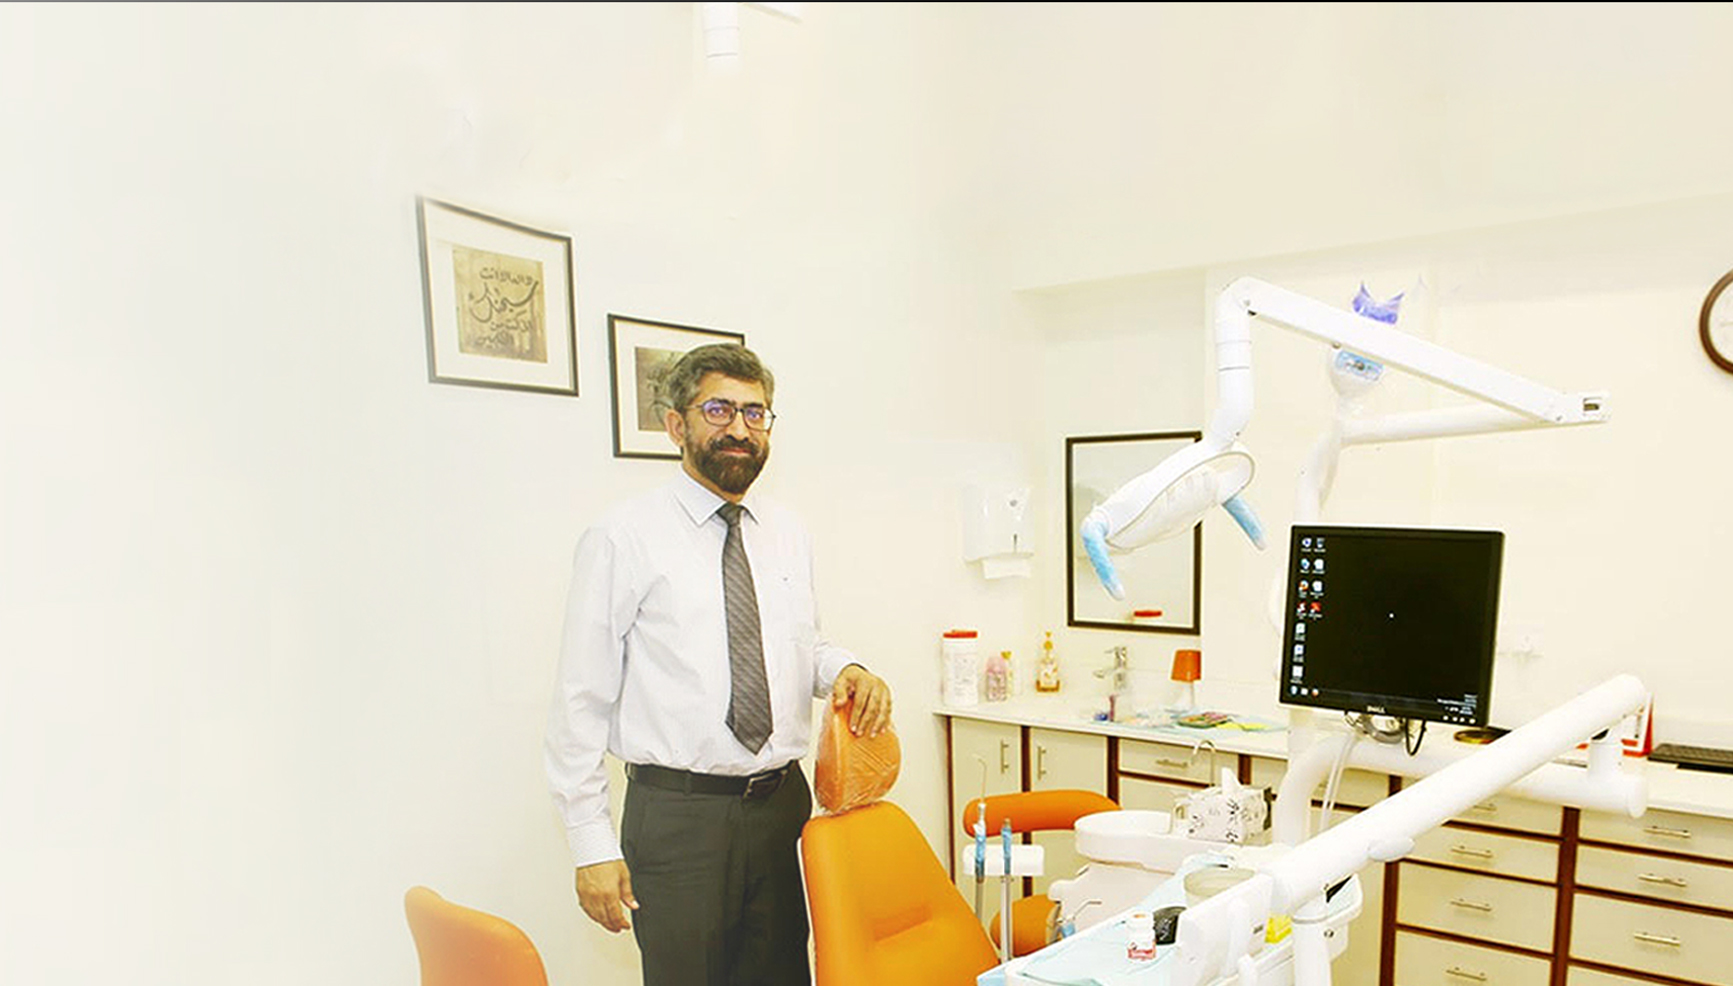
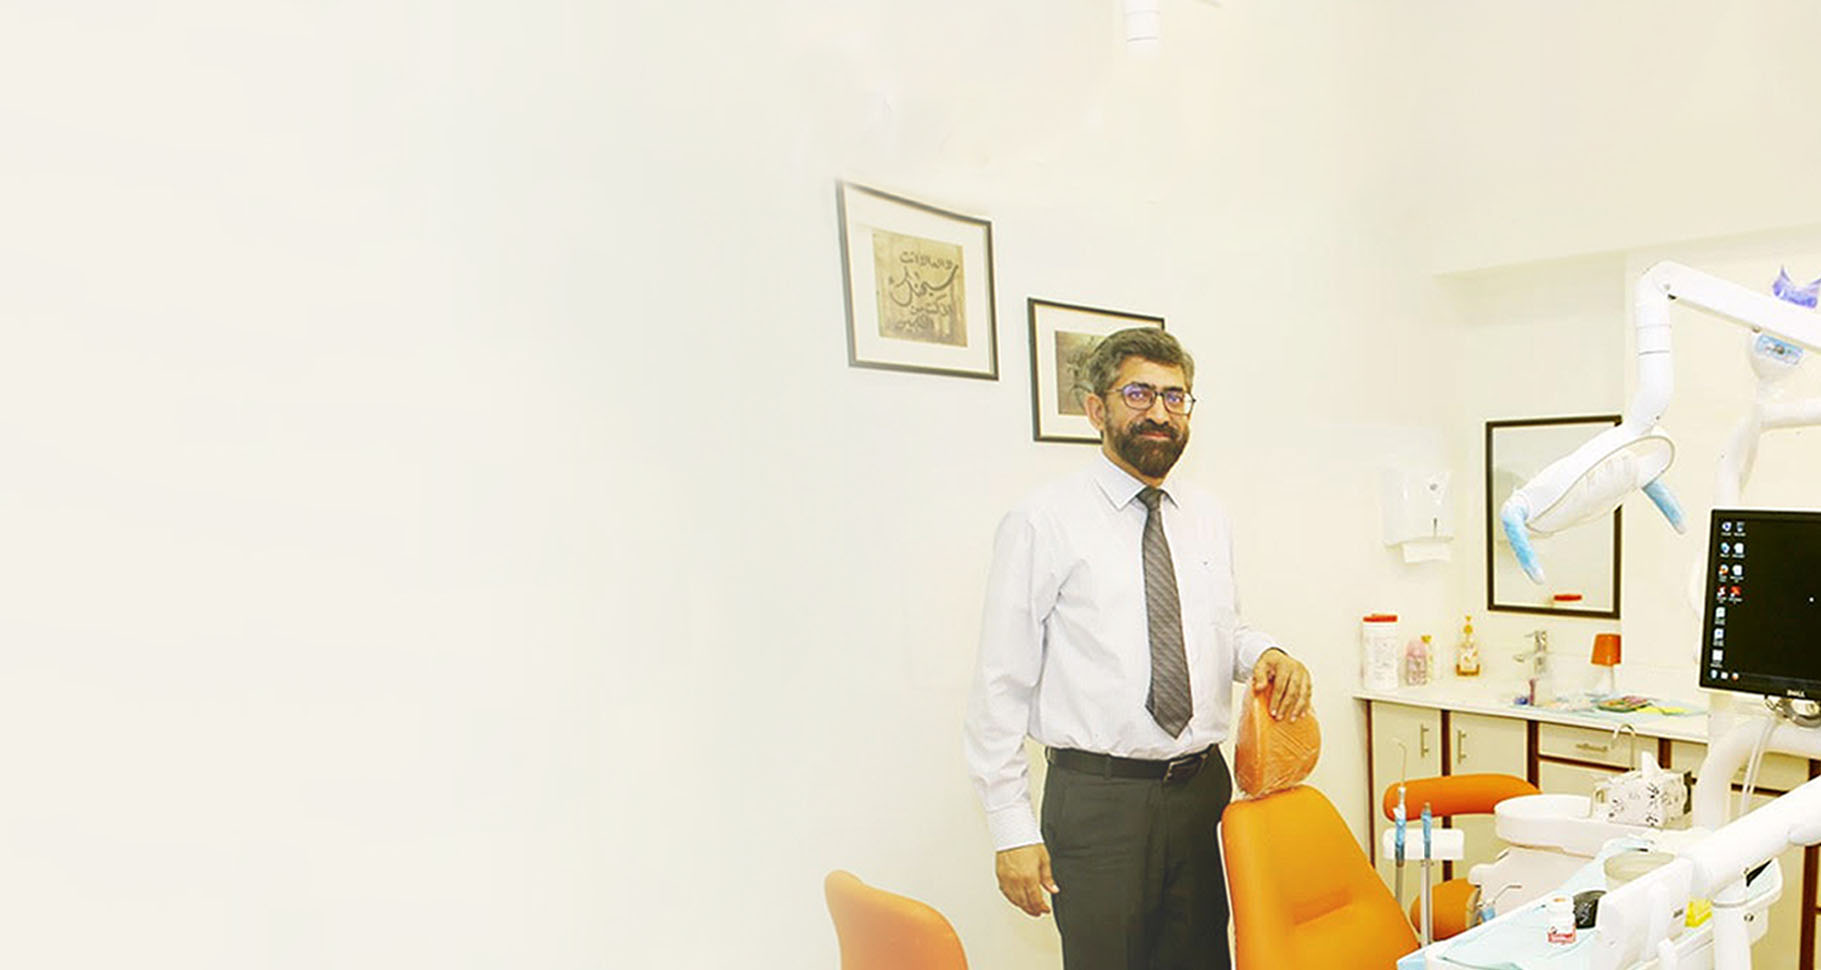
add slider on main page

diff --git a/public/css/style.css b/public/css/style.css
@@ -66,12 +66,16 @@ li {
 }
 
 #header-main {
+    background-color: #f5f2e9;
+}
+/* #header-main {
     background-image: url('../images/banner-image_01.jpg');
     height: 1100px;
     background-repeat: no-repeat;
     background-size: cover;
     background-position: left center;
-}
+} */
+
 /* #header-inner {
     background-image: url('../images/Inner-page01-header-bg_01.png');
     height: 350px;
@@ -373,6 +377,41 @@ div#banner-block-01 {
     width: 10%;
 }
 
+/* banner slider */
+
+.carousel-content {
+    display: flex;
+    justify-content: space-between;
+}
+
+.carousel-content .carousel-left {
+    width: 560px;
+    text-align: left;
+}
+.carousel-content .carousel-left h1{
+    font-family: "bill corporate narrow W00medium";
+    font-size:60px;
+}
+.get-start{
+    padding: 20px 30px;
+    background-color: #8d1a22;
+    color: #fff;
+    text-decoration: none;
+    font-family: 'bill corporate narrow W00medium';
+    font-size: 18px;
+    border-radius: 100px;
+}
+.get-start img {
+    border-radius: 100%;
+    top: 0px;
+    position: relative;
+    left: 15px;
+}
+.carousel-caption {
+    position: absolute;
+    right: 15%;
+    bottom: 30% !important;
+}
 /* banner */
 
 /* header */

diff --git a/resources/views/inc/header-main.blade.php b/resources/views/inc/header-main.blade.php
@@ -89,38 +89,87 @@
             </marquee>
           </div>
         </div>
-
-        <div id="banner-block-01">
-            <div class="banner-txt-blk">
-                <p class="p-01">Welcome To Shah Dental</p>
-                <h1>We Are <strong>Creating <br>Natural Beauty</strong> With <br> Extraordinary <span
-                        class="color-01"><strong>Smiles</strong></span></h1>
-                <p>Greetings and welcome to Shah Dental Clinic (Prof. Syed Shah<br>
-                    Faisal & Associates). We are proud to serve the people of<br>
-                    Karachi since 1998. </p>
-                <a href="{{ url('/make-an-appointment') }}">Get Started <img class="cus-img"
-                        src="{{ url('public/images/Shah-Dental_10.jpg') }}" alt=""></a>
-            </div>
-            <div class="follow-main">
-                <p>Follow Us</p><br>
-                {{-- <img src="{{ asset('images/Shah-Dental-0_03.png') }}" alt=""><br><br> --}}
-                <img src="{{ url('public/images/Shah-Dental-0_03.png') }}" alt=""><br><br>
-                <a href="https://www.facebook.com/Shah-Dental-Clinic-884470434977957">
-                    {{-- <img src="{{ asset('images/Shah-Dental-0_07.png') }}" alt=""> --}}
-                    <img src="{{ url('public/images/Shah-Dental-0_07.png') }}" alt="">
-                </a><br>
-                <a href="https://www.instagram.com/dentalartclinicc/">
-                    {{-- <img src="{{ asset('images/Shah-Dental-0_10.png') }}" alt=""> --}}
-                    <img src="{{ url('public/images/Shah-Dental-0_10.png') }}" alt="">
-                </a><br>
-                <a href="https://twitter.com/SYEDSHA07606672">
-                    {{-- <img src="{{ asset('images/Shah-Dental-0_12.png') }}" alt=""> --}}
-                    <img src="{{ url('public/images/Shah-Dental-0_12.png') }}" alt="">
-                </a>
-
-            </div>
-        </div>  
+        </div>          
       </div>        
     </div>
   </div>
+</div>
+<div id="carouselExampleDark" class="carousel carousel-dark slide" data-bs-ride="carousel">
+  <div class="carousel-indicators">
+    <button type="button" data-bs-target="#carouselExampleDark" data-bs-slide-to="0" class="active" aria-current="true" aria-label="Slide 1"></button>
+    <button type="button" data-bs-target="#carouselExampleDark" data-bs-slide-to="1" aria-label="Slide 2"></button>
+    <button type="button" data-bs-target="#carouselExampleDark" data-bs-slide-to="2" aria-label="Slide 3"></button>
+  </div>
+  <div class="carousel-inner">
+    <div class="carousel-inner-left">
+      <div class="carousel-item active" data-bs-interval="10000">
+        <img src="http://127.0.0.1/ShahDental/public/images/banner-image_01.jpg" class="d-block w-100" alt="...">
+        <div class="carousel-caption carousel-content">
+          <div class="carousel-left">
+            <h5>1-Welcome To Shah Dental</h5>
+            <h1>We Are Creating Natural Beauty With Extraordinary Smiles</h1>
+            <p>Greetings and welcome to Shah Dental Clinic (Prof. Syed Shah
+              Faisal & Associates). We are proud to serve the people of Karachi since 1998.</p>
+              <a class="get-start" href="{{ url('/make-an-appointment') }}">Get Started <img class="cus-img"
+                src="{{ url('public/images/Shah-Dental_10.jpg') }}" alt=""></a>
+          </div>
+          <div class="follow-main">
+            <p>Follow Us</p><br>
+            {{-- <img src="{{ asset('images/Shah-Dental-0_03.png') }}" alt=""><br><br> --}}
+            <img src="{{ url('public/images/Shah-Dental-0_03.png') }}" alt=""><br><br>
+            <a href="https://www.facebook.com/Shah-Dental-Clinic-884470434977957">
+                {{-- <img src="{{ asset('images/Shah-Dental-0_07.png') }}" alt=""> --}}
+                <img src="{{ url('public/images/Shah-Dental-0_07.png') }}" alt="">
+            </a><br>
+            <a href="https://www.instagram.com/dentalartclinicc/">
+                {{-- <img src="{{ asset('images/Shah-Dental-0_10.png') }}" alt=""> --}}
+                <img src="{{ url('public/images/Shah-Dental-0_10.png') }}" alt="">
+            </a><br>
+            <a href="https://twitter.com/SYEDSHA07606672">
+                {{-- <img src="{{ asset('images/Shah-Dental-0_12.png') }}" alt=""> --}}
+                <img src="{{ url('public/images/Shah-Dental-0_12.png') }}" alt="">
+            </a>
+          </div>
+        </div>
+      </div>
+      <div class="carousel-item" data-bs-interval="2000">
+        <img src="http://127.0.0.1/ShahDental/public/images/banner-image_01.jpg" class="d-block w-100" alt="...">
+        <div class="carousel-caption carousel-content">
+          <div class="carousel-left">
+            <h5>2-Welcome To Shah Dental</h5>
+            <h1>We Are Creating Natural Beauty With Extraordinary Smiles</h1>
+            <p>Greetings and welcome to Shah Dental Clinic (Prof. Syed Shah
+              Faisal & Associates). We are proud to serve the people of Karachi since 1998.</p>
+              <a class="get-start" href="{{ url('/make-an-appointment') }}">Get Started <img class="cus-img"
+                src="{{ url('public/images/Shah-Dental_10.jpg') }}" alt=""></a>
+          </div>
+          <div class="follow-main">
+            <p>Follow Us</p><br>
+            {{-- <img src="{{ asset('images/Shah-Dental-0_03.png') }}" alt=""><br><br> --}}
+            <img src="{{ url('public/images/Shah-Dental-0_03.png') }}" alt=""><br><br>
+            <a href="https://www.facebook.com/Shah-Dental-Clinic-884470434977957">
+                {{-- <img src="{{ asset('images/Shah-Dental-0_07.png') }}" alt=""> --}}
+                <img src="{{ url('public/images/Shah-Dental-0_07.png') }}" alt="">
+            </a><br>
+            <a href="https://www.instagram.com/dentalartclinicc/">
+                {{-- <img src="{{ asset('images/Shah-Dental-0_10.png') }}" alt=""> --}}
+                <img src="{{ url('public/images/Shah-Dental-0_10.png') }}" alt="">
+            </a><br>
+            <a href="https://twitter.com/SYEDSHA07606672">
+                {{-- <img src="{{ asset('images/Shah-Dental-0_12.png') }}" alt=""> --}}
+                <img src="{{ url('public/images/Shah-Dental-0_12.png') }}" alt="">
+            </a>
+          </div>
+        </div>
+      </div>
+    </div>
+  </div>
+  <button class="carousel-control-prev" type="button" data-bs-target="#carouselExampleDark" data-bs-slide="prev">
+    <span class="carousel-control-prev-icon" aria-hidden="true"></span>
+    <span class="visually-hidden">Previous</span>
+  </button>
+  <button class="carousel-control-next" type="button" data-bs-target="#carouselExampleDark" data-bs-slide="next">
+    <span class="carousel-control-next-icon" aria-hidden="true"></span>
+    <span class="visually-hidden">Next</span>
+  </button>
 </div>

diff --git a/resources/views/inc/banner-slide.blade.php b/resources/views/inc/banner-slide.blade.php
@@ -1,0 +1,21 @@
+<div id="carouselExampleInterval" class="carousel slide" data-bs-ride="carousel">
+    <div class="carousel-inner">
+      <div class="carousel-item active" data-bs-interval="10000">
+        <img src="..." class="d-block w-100" alt="...">
+      </div>
+      <div class="carousel-item" data-bs-interval="2000">
+        <img src="..." class="d-block w-100" alt="...">
+      </div>
+      <div class="carousel-item">
+        <img src="..." class="d-block w-100" alt="...">
+      </div>
+    </div>
+    <button class="carousel-control-prev" type="button" data-bs-target="#carouselExampleInterval" data-bs-slide="prev">
+      <span class="carousel-control-prev-icon" aria-hidden="true"></span>
+      <span class="visually-hidden">Previous</span>
+    </button>
+    <button class="carousel-control-next" type="button" data-bs-target="#carouselExampleInterval" data-bs-slide="next">
+      <span class="carousel-control-next-icon" aria-hidden="true"></span>
+      <span class="visually-hidden">Next</span>
+    </button>
+  </div>
